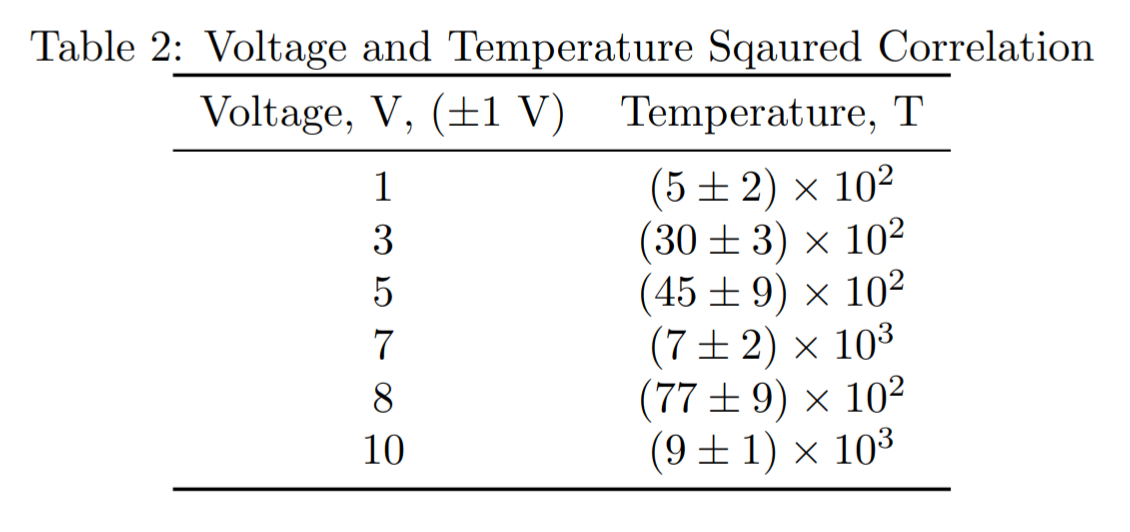
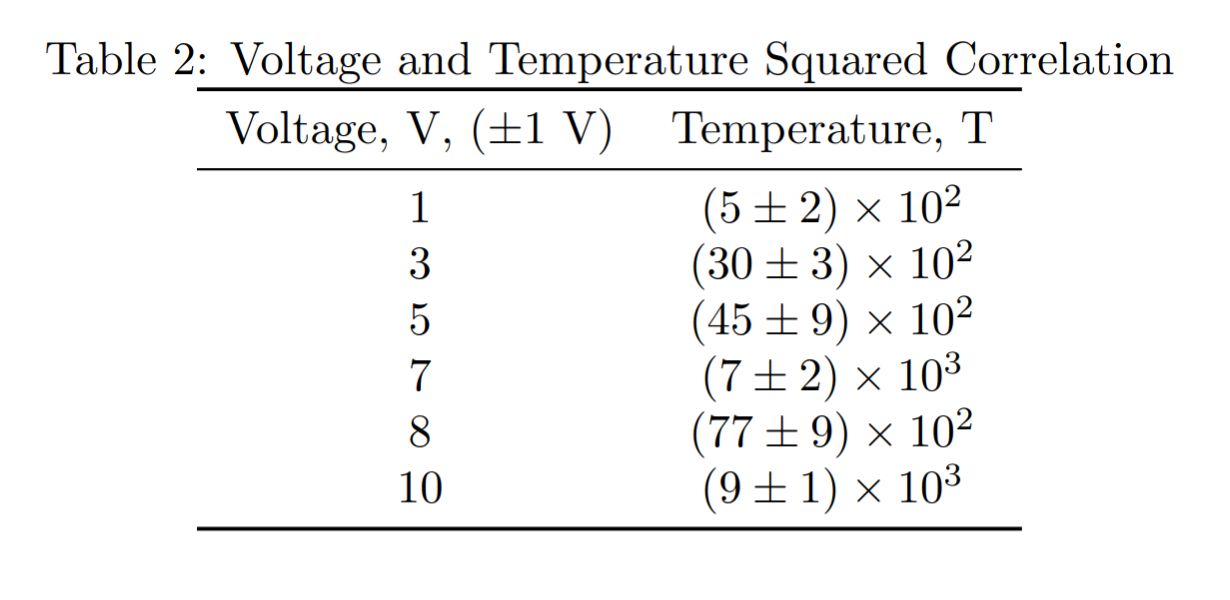
v0.4.1

diff --git a/labtex/unit.py b/labtex/unit.py
@@ -1,4 +1,5 @@
 import re
+from numbers import Number
 from typing import Union
 import math
 
@@ -31,7 +32,8 @@ class Unit:
     # 'f':1e-15,
     'p':1e-12,
     'n':1e-9,
-    'u':1e-6,
+    'u':1e-6, # u \approx µ for usability
+    'µ':1e-6,
     'm':1e-3,
     'c':1e-2,
     '' :1,
@@ -75,6 +77,7 @@ class Unit:
         # Match a known unit
         # Compiles to '([JVNWTmgsACK]|(?:Pa)|(?:Hz))' for default (base + derived) units
         unit = re.compile(f"([{''.join([ unit_str if len(unit_str) == 1 else '' for unit_str in Unit.knownUnits])}]|{'|'.join([ ('(?:' + unit_str + ')') for unit_str in filter(lambda x: len(x) > 1, Unit.knownUnits) ])})") 
+        # print(unit)
         # Match a '^' followed optionally by '-' and then any number of digits
         power = re.compile('(\^)(\-?)(\d+)')
         # power = re.compile(r'\^(?:-?\d+)')
@@ -129,12 +132,25 @@ class Unit:
         else:
             return False
 
+    @staticmethod
+    def addUnit(symbol : str, SI_equivalent : str, constant_factor : float = 1):
+        # inefficient but functional
+        Unit.derivedUnits[symbol] = [SI_equivalent, constant_factor]
+        Unit.knownUnits += [symbol]
 
-    def __eq__(self,obj):
+
+
+    # def __eq__(self,obj):
+    #     "Check if two Units are the same."
+    #     if (isinstance(obj,Unit)):
+    #         return all(self.units[unit] == obj.units[unit] for unit in Unit.knownUnits)
+    #     return False
+
+    def __eq__(self, obj):
         "Check if two Units are the same."
-        if (isinstance(obj,Unit)):
-            return all(self.units[unit] == obj.units[unit] for unit in Unit.knownUnits)
-        return False
+        obj = obj if isinstance(obj,Unit) else Unit(obj)
+        return factorandbasedims(self) == factorandbasedims(obj) if isinstance(obj,Unit) else False
+        
 
     def __mul__(self,obj):
         "Multiply two Units."
@@ -153,10 +169,12 @@ class Unit:
                         "power": self.units[unit]["power"] + obj.units[unit]["power"]
                         }
                 else:
-                    raise Exception("Units have different prefixes. Multiplication not supported.")
+                    raise Exception("Units have different prefixes. Multiplication not supported as constant factors arise..")
             return Unit(newunits)
-        else:
+        elif(isinstance(obj,Number)):
             return self
+        else:
+            return NotImplemented
 
     def __rmul__(self,obj):
         return self.__mul__(obj)
@@ -177,7 +195,7 @@ class Unit:
                         "power": self.units[unit]["power"] - obj.units[unit]["power"]
                         }
                 else:
-                    raise Exception("Measurements have different prefixes. Division not supported.")
+                    raise Exception("Measurements have different prefixes. Division not supported as constant factors arise.")
             return Unit(newunits)
         else:
             return self.__mul__(1/obj)
@@ -203,4 +221,25 @@ class Unit:
         return Unit(newunits)
 
 class U(Unit):
+    "SI Unit taking in a string."
     pass
+
+def factorandbasedims(unit):
+    factor = 1
+    basedims = { unit : 0 for unit in Unit.baseUnits }
+    for dim in unit.units:
+        if unit.units[dim]['power'] != 0 and dim in Unit.derivedUnits:
+            if len(Unit.derivedUnits[dim]) == 2:
+                factor *= (Unit.derivedUnits[dim][1]) ** unit.units[dim]['power']
+            # print('Derived unit: ' + str(dim))
+            factor *= Unit.prefixes[unit.units[dim]['prefix']] ** unit.units[dim]['power']
+            equivalentunits = Unit(Unit.derivedUnits[dim][0]).units
+            for baseUnit in Unit.baseUnits: # as all equivalent units are base units
+                # print('Base unit: ' + str(baseUnit) + 'power: ' + str(equivalentunits[baseUnit]['power']))
+                basedims[baseUnit] += equivalentunits[baseUnit]['power'] * unit.units[dim]['power']
+                factor *= Unit.prefixes[equivalentunits[baseUnit]['prefix']]**(equivalentunits[baseUnit]['power'] * unit.units[dim]['power'])
+        elif dim in Unit.baseUnits:
+            # print('Base unit: ' + str(dim))
+            basedims[dim] += unit.units[dim]['power']
+            factor *= Unit.prefixes[unit.units[dim]['prefix']]**unit.units[dim]['power']
+    return factor, basedims

diff --git a/labtex/measurement.py b/labtex/measurement.py
@@ -2,13 +2,15 @@ import math
 from numbers import Number
 from typing import Union
 from labtex.unit import Unit
+from labtex.unit import factorandbasedims
 
 class Measurement:
+    "Base Class for all single valued measurements with uncertainties and SI units."
     def __init__(self, value: float, uncertainty: float = 0, unit: Union[Unit,str] = ""):
         "Create a measurement with a value, uncertainty and SI Unit."
         self.value = value
         self.uncertainty = uncertainty
-        self.relativeuncertainty = self.uncertainty / self.value
+        self.relativeuncertainty = self.uncertainty / self.value if self.value != 0 else 0
 
         self.unit = unit if (isinstance(unit,Unit)) else Unit(unit)
     
@@ -151,10 +153,21 @@ class Measurement:
 
     def __pow__(self,obj):
         "Raising a measurement to a constant power."
+        if(isinstance(obj,Measurement)):
+            if(Unit.unitless(obj.unit)):
+                return Measurement(
+                    self.value ** obj.value,
+                     abs(self.value ** obj.value) * math.sqrt(
+                        (obj.value * self.relativeuncertainty)**2 + (math.log(obj.value) * obj.uncertainty)**2
+                        ),
+                    self.unit ** obj.value
+                )
+            else:
+                raise Exception("Cannot raise a constant to a dimensional quantity. Units: " + str(self.unit))
         if(isinstance(obj,Number)):
             return Measurement(
                 self.value ** obj,
-                (self.value ** obj) * abs(obj) * self.relativeuncertainty,
+                abs(self.value ** obj * obj) * self.relativeuncertainty,
                 self.unit ** obj
             )
         else:
@@ -206,7 +219,7 @@ class Measurement:
         if(Unit.unitless(x.unit)):
             return Measurement(
                 math.tan(x.value),
-                math.fabs( 1 / math.cos(x.value)**2 ) * x.uncertainty,
+                x.uncertainty / math.cos(x.value)**2 ,
                 ""
             )
         else:
@@ -254,7 +267,7 @@ class Measurement:
         if(Unit.unitless(x.unit)):
             return Measurement(
                 math.atan(x.value),
-                x.uncertainty / (math.sqrt(1 - x.value**2)),
+                x.uncertainty / (math.sqrt(1 + x.value**2)),
                 ""
             )
         else:
@@ -277,23 +290,6 @@ class Measurement:
             raise Exception(f"Dimension Error: Cannot convert from {self.unit} to {unit} because they have different dimensions.")
         
 class M(Measurement):
+    "Base Class for all single valued measurements with uncertainties and SI units."
     pass
 
-def factorandbasedims(unit : Unit):
-    factor = 1
-    basedims = { unit : 0 for unit in Unit.baseUnits }
-    for dim in unit.units:
-        if unit.units[dim]['power'] != 0 and dim in Unit.derivedUnits:
-            if len(Unit.derivedUnits[dim]) == 2:
-                factor *= Unit.derivedUnits[dim][1] ** unit.units[dim]['power']
-            # print('Derived unit: ' + str(dim))
-            equivalentunits = Unit(Unit.derivedUnits[dim][0]).units
-            for baseUnit in Unit.baseUnits: # as all equivalent units are base units
-                # print('Base unit: ' + str(baseUnit) + 'power: ' + str(equivalentunits[baseUnit]['power']))
-                basedims[baseUnit] += equivalentunits[baseUnit]['power'] * unit.units[dim]['power']
-                factor *= Unit.prefixes[equivalentunits[baseUnit]['prefix']]**(equivalentunits[baseUnit]['power'] * unit.units[dim]['power'])
-        elif dim in Unit.baseUnits:
-            # print('Base unit: ' + str(dim))
-            basedims[dim] += unit.units[dim]['power']
-            factor *= Unit.prefixes[unit.units[dim]['prefix']]**unit.units[dim]['power']
-    return factor, basedims

diff --git a/labtex/measurementlist.py b/labtex/measurementlist.py
@@ -21,7 +21,6 @@ class MeasurementList:
     `>>> MeasurementList( 
      ... [Measurement(1,0.1,"m"),Measurement(2,0.2,"m"),Measurement(3,0.3,"m")]
      ... )`
-
     """
     def __init__(self,measurements: Union[List[Number],List[Measurement]], uncertainty: Union[Number,List] = math.nan, unit: Union[Unit,str] = ""):
         
@@ -79,15 +78,23 @@ class MeasurementList:
     def uncertainties(self):
         return [measurement.uncertainty for measurement in self]
     
-    def append(self,obj):
+    # mutating
+    def concat(self,obj):
+        "Non-mutating concatenation of a Measurement/MeasurementList to the current MeasurementList."
         if(isinstance(obj,MeasurementList)):
-            return MeasurementList([*[measurement for measurement in self], *[measurement for measurement in obj]])
+            if(self.unit == obj.unit):
+                return  MeasurementList([*[measurement for measurement in self], *[measurement for measurement in obj]])
+            else:
+                raise Exception("MeasurementList Error: Cannot append two MeasurementLists with different units.")
         elif(isinstance(obj,Measurement)):
-            return MeasurementList([*[measurement for measurement in self], obj])
+            if(self.unit == obj.unit):
+                return MeasurementList([*[measurement for measurement in self], obj])
+            else:
+                raise Exception("MeasurementList Error: Cannot append a MeasurementList and a Measurement with different units.")
         else:
             raise Exception(f"Object of type {type(obj)} cannot be appended to a MeasurementList. Try a MeasurementList or a Measurement.")
 
-            
+        
     def __add__(self,obj):
         "Elementwise addition of two MeasurementLists. If a Measurement is added, it is added to all Measurements in the list."
         if(isinstance(obj,MeasurementList)):
@@ -163,6 +170,11 @@ class MeasurementList:
             [obj ** measurement for measurement in self]
         )
 
+    def to(self,unit : str):
+        return MeasurementList(
+            [measurement.to(unit) for measurement in self]
+        )
+
     @staticmethod
     def sin(x):
         return MeasurementList(
@@ -206,4 +218,20 @@ class MeasurementList:
         )
 
 class ML(MeasurementList):
+    """An extension of the measurement class to take list values. Can be instantiated in a number of ways:
+    - Using lists for the values and the uncertainty
+    
+    `>>> MeasurementList([1,2,3],[0.1,0.2,0.3],"m")`
+
+    - Using lists for the values and a single uncertainty for all measurements
+
+    `>>> MeasurementList([1,2,3],0.1,"m")`
+
+    - Using A list of `Measurement` instances
+
+    `>>> MeasurementList( 
+     ... [Measurement(1,0.1,"m"),Measurement(2,0.2,"m"),Measurement(3,0.3,"m")]
+     ... )`
+
+    """
     pass

diff --git a/labtex/linear.py b/labtex/linear.py
@@ -43,12 +43,12 @@ class LinearRegression:
     def __repr__(self):
         return f"m = {self.lobf['m']}\nc = {self.lobf['c']}"
 
-    def plot(self, title: str = "", xname : str = "", yname: str = "", showline : bool = True, graphnumber : int = 0):
+    def plot(self, title: str = "", xnameandsymbol : str = "", ynameandsymbol: str = "", showline : bool = True, graphnumber : int = 0):
         plt.figure(graphnumber)
         plt.errorbar(self.x.values(),self.y.values(), yerr = self.y.uncertainties(),fmt='o')
         if showline:
             plt.plot(self.x.values(), (self.x * self.lobf["m"].value + self.lobf["c"].value).values() )
         plt.title(title)
-        plt.xlabel(xname + f"{', ($' + str(self.x.unit) + '$)' if self.x.unit != '' else ''}")
-        plt.xlabel(yname + f"{', ($' + str(self.y.unit) + '$)' if self.y.unit != '' else ''}")
+        plt.xlabel(xnameandsymbol + f"{', ($ ' + str(self.x.unit) + '$)' if self.x.unit != '' else ''}")
+        plt.ylabel(ynameandsymbol + f"{', ($ ' + str(self.y.unit) + '$)' if self.y.unit != '' else ''}")
         return plt

diff --git a/test/test_measurementlist.py b/test/test_measurementlist.py
@@ -65,7 +65,7 @@ class TestMeasurementListClass(unittest.TestCase):
             repr(MeasurementList.acos(heights/maxheight)), "[0.39 ± 0.09, 0.42 ± 0.08, 0.43 ± 0.08, 0.2 ± 0.2, 0.4 ± 0.1, 0.5 ± 0.1] "
         )
         self.assertEqual(
-            repr(MeasurementList.atan(heights/maxheight)), "[0.75 ± 0.09, 0.74 ± 0.08, 0.74 ± 0.08, 0.8 ± 0.2, 0.7 ± 0.1, 0.7 ± 0.1] "
+            repr(MeasurementList.atan(heights/maxheight)), "[0.75 ± 0.03, 0.74 ± 0.02, 0.74 ± 0.03, 0.77 ± 0.03, 0.74 ± 0.03, 0.72 ± 0.04] "
         )
     def test_exceptions(self):
         with self.assertRaises(Exception):

diff --git a/test/test_measurement.py b/test/test_measurement.py
@@ -41,7 +41,7 @@ class TestMeasurementClass(unittest.TestCase):
         self.assertEqual( repr(Measurement.log(x/y)), "-0.7 ± 0.3 ")
         self.assertEqual( repr(Measurement.asin(x/y)), "0.5 ± 0.2 ")
         self.assertEqual( repr(Measurement.acos(x/y)), "1.1 ± 0.2 ")
-        self.assertEqual( repr(Measurement.atan(x/y)), "0.5 ± 0.2 ")
+        self.assertEqual( repr(Measurement.atan(x/y)), "0.5 ± 0.1 ")
 
     def test_conversion(self):
         self.assertEqual( repr(Measurement(2,1,'cm^3').to('m^3')), "(2 ± 1) × 10^{-6} m^3")

diff --git a/setup.py b/setup.py
@@ -5,7 +5,7 @@ import pathlib
 DIR = pathlib.Path(__file__).parent
 README = (DIR / 'README.md').read_text()
 
-VERSION = '0.4.1-alpha'
+VERSION = '0.4.1'
 DESCRIPTION = 'Lab report data analysis and LaTeX file generation'
 
 setuptools.setup(

diff --git a/test/__init__.py b/test/__init__.py
@@ -1,0 +1,4 @@
+# To run tests, if you are in the root of the project:
+#   source test/venv/bin/activate
+#   python3 -m unittest
+# These commands activate a virtual environment and run the tests respectively.

diff --git a/labtex/__init__.py b/labtex/__init__.py
@@ -5,4 +5,4 @@ from labtex.linear import LinearRegression
 from labtex.document import Document
 
 
-__version__ = '0.4.1-alpha'
+__version__ = '0.4.1'

diff --git a/README.md b/README.md
@@ -121,7 +121,7 @@ Alternatively if an `upright` table is preferred, this may be specified through 
 doc.table(
     nameandsymbol = ["Voltage, V", "Temperature, T"],
     data = [voltages,temperatures**2],
-    caption = "Voltage and Temperature Sqaured Correlation",
+    caption = "Voltage and Temperature Squared Correlation",
     style = "upright"
 )
 ```
@@ -130,7 +130,7 @@ Once again this inserts the following into the `doc` instance.
 ```latex
 \begin{table}[ht]
     \centering
-    \caption{Voltage and Temperature Sqaured Correlation}
+    \caption{Voltage and Temperature Squared Correlation}
     \label{tab:2}
     \begin{tabular}{*{2}c}
         \toprule
@@ -166,7 +166,7 @@ This generates the graph below and saves it to `figures/graph1.png`. If you want
 
 ![](https://github.com/CianLM/labtex/raw/master/figures/graph1.png)
 
-Once you have added all your tables and graphs to the `doc` object, you may save this file as shown below. The default write directory is `tex/` relative to root. This directory is also customisable with `Document.texfolder`.
+Once you have added all your tables and graphs to the `doc` object, you may save this file as shown below. The default write directory is `tex/` relative to root. This directory is also customizable with `Document.texfolder`.
 
 ```python
 doc.save("test")

diff --git a/CHANGELOG.md b/CHANGELOG.md
@@ -2,12 +2,17 @@
 
 # Looking Forward
 
+- Computer Modern Plot font
+- CSV data import workflow
+- Numpy input integration
 - Interface with statistical packages for non-linear regression
-- Printing latex for the error propogation done
+- Printing latex for the error propagation done
 - Documentation
 
 # v0.4.1
-- Fixed exponential error propogation
+- Documentation/guides coming very soon
+- Fixed exponential and inverse tangent error propagation
+- Fixed other minor bugs
 # v0.4.0
 
 New Features:
